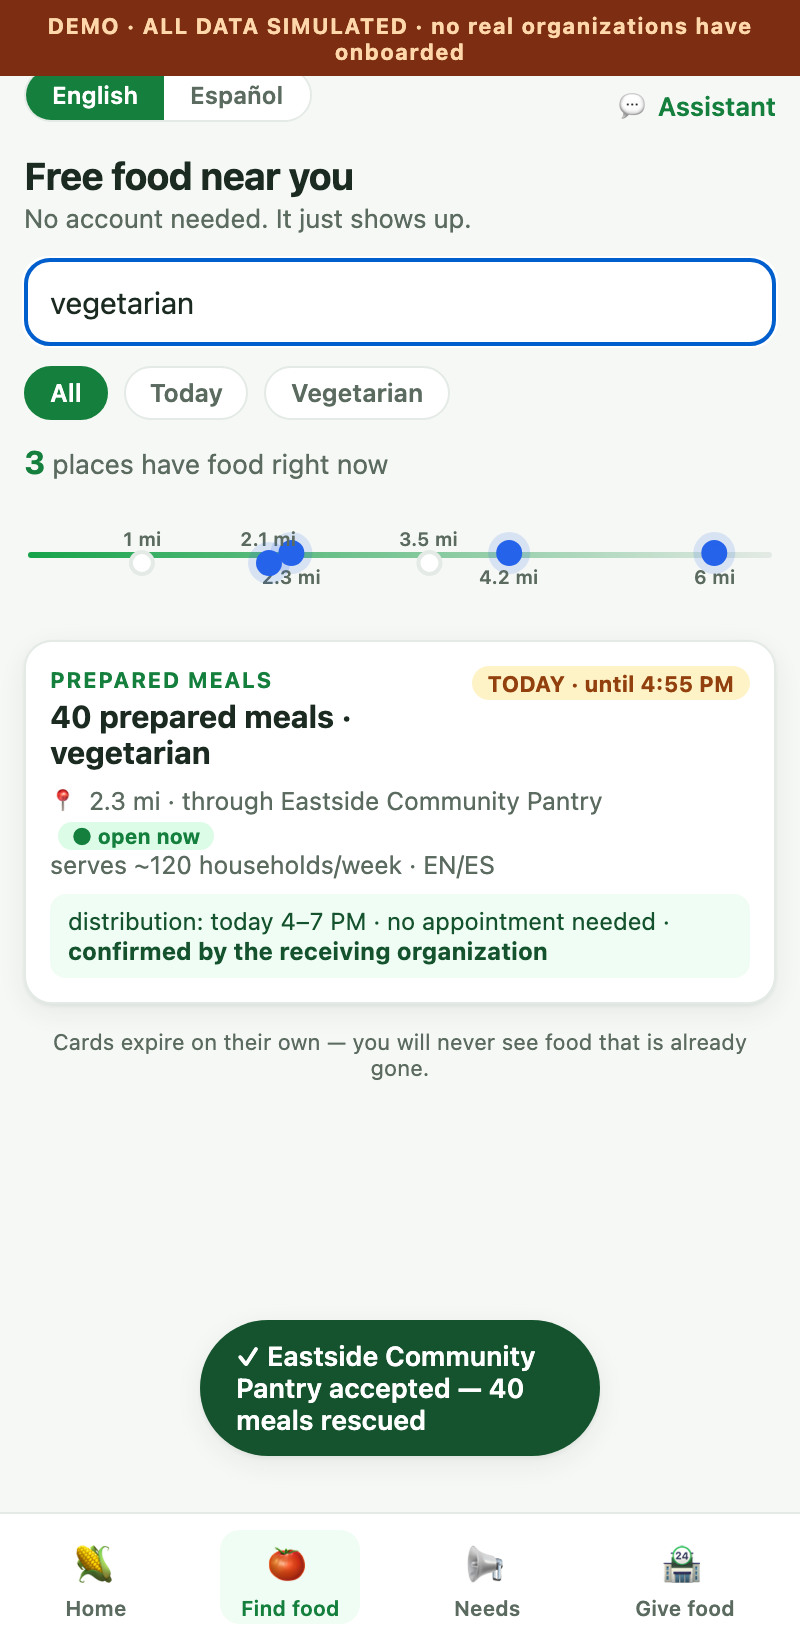
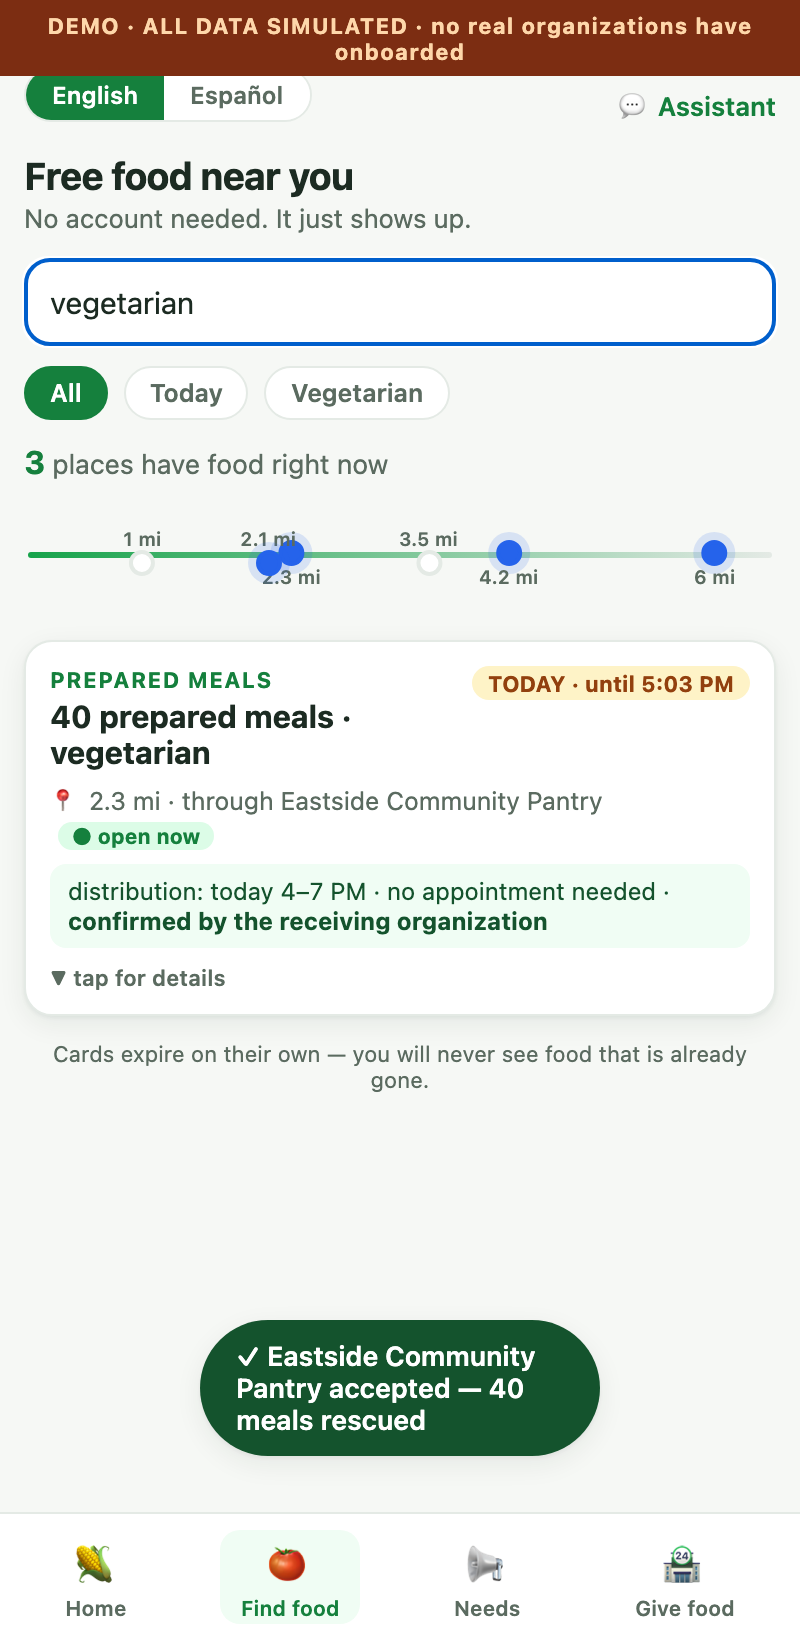
v5: first-run welcome + 60-second guided tour with prefilled form, stepper on donor flow, tap-to-expand household cards, decluttered home

Changed region(s): [[0.0625, 0.4976, 0.8125, 0.653], [0.4375, 0.622, 0.9375, 0.6841], [0.7812, 0.4043, 0.8125, 0.4354]]

diff --git a/app/js/app.js b/app/js/app.js
@@ -8,8 +8,45 @@
     needs: JSON.parse(JSON.stringify(D.needs)),
     impact: JSON.parse(localStorage.getItem('foodlink-impact') || '{"meals":0,"donations":0,"orgs":[]}'),
     draft: null, lang: 'en', filter: 'all', query: '',
-    chat: [], chatBusy: false
+    chat: [], chatBusy: false,
+    tour: { active: false, i: 0 }, openCard: null
   };
+
+  /* ---------- guided tour ---------- */
+  var EXAMPLE = '40 vegetarian prepared meals, refrigerated, need gone by 7pm';
+  var TOUR = [
+    { hash: 'home', text: '👋 This is the live food grid — surplus on one side, need on the other. Let\'s walk it in 7 quick steps.' },
+    { hash: 'donate', text: 'STEP 1 · Describe your food in one sentence — we typed an example for you. Then tap “Find where it should go”.', prefill: true },
+    { hash: 'match', text: 'STEP 2 · FoodLink checked every organization. Gated ones show WHY they were rejected. The top match is 82.4%. Tap “Connect →”.', ensureDraft: true },
+    { hash: 'receipt', text: 'STEP 3 · Done — an impact receipt: 48 lbs, $140.80 value, tax estimate. Every donation gets one automatically.', ensureDraft: true },
+    { hash: 'need', text: 'Now the household side — no login, no documents, honest cards. Tap any card for details; switch to Español.' },
+    { hash: 'sms', text: '💬 Any phone works — the assistant answers in any language. Try a quick-question chip below.' },
+    { hash: 'needs-board', text: '📢 Organizations post what they NEED — and the network exports its own open data. That\'s the whole grid. Tap Finish.' }
+  ];
+  function tourStart() { store.tour = { active: true, i: 0 }; location.hash = TOUR[0].hash; render(); }
+  function tourNext() {
+    var t = store.tour; t.i++;
+    if (t.i >= TOUR.length) { store.tour = { active: false, i: 0 }; location.hash = 'home'; render(); toast('🎉 That\'s the whole grid — explore freely!'); return; }
+    var step = TOUR[t.i];
+    if (step.ensureDraft && (!store.draft || store.draft.raw !== EXAMPLE)) {
+      var d = AI.parseDonation(EXAMPLE); d.attested = true; d.directOffer = false; store.draft = d;
+    }
+    if (step.prefill) store.tourPrefill = true; else store.tourPrefill = false;
+    if (location.hash === '#' + step.hash) render(); else location.hash = step.hash;
+  }
+  function tourBarHTML() {
+    var t = store.tour, step = TOUR[t.i];
+    if (!step) return '';
+    return '<div class="tourbar"><div class="tmeta">Tour ' + (t.i + 1) + '/' + TOUR.length +
+      (step.prefill ? ' · we filled the form for you' : '') + '</div><div class="ttext">' + esc(step.text) + '</div>' +
+      '<div class="tbtns"><button class="btn tbtn-exit" data-tour="exit">Exit</button>' +
+      '<button class="btn btn-primary tbtn-next" data-tour="next">' + (t.i === TOUR.length - 1 ? 'Finish ✓' : 'Next →') + '</button></div></div>';
+  }
+  function ensureDraftNow() {
+    if (!store.draft || store.draft.raw !== EXAMPLE) {
+      var d = AI.parseDonation(EXAMPLE); d.attested = true; d.directOffer = false; store.draft = d;
+    }
+  }
   function saveImpact() { localStorage.setItem('foodlink-impact', JSON.stringify(store.impact)); }
   function esc(s) { return String(s == null ? '' : s).replace(/[&<>"']/g, function (c) {
     return { '&': '&amp;', '<': '&lt;', '>': '&gt;', '"': '&quot;', "'": '&#39;' }[c]; }); }
@@ -46,6 +83,7 @@
     '<small>The real-time food grid · Des Moines</small></div></div>' +
     '<a class="gear" href="#settings" title="AI settings">⚙</a></div>' +
     '<span class="tag"><i></i>' + live + ' surplus · ' + store.needs.length + ' needs on the board right now</span>' +
+    '<a class="tourlink" data-tour-start="1">▶ New here? Take the 60-second tour</a>' +
     '<a class="btn-big btn-need" href="#need">🍅 I need food<span>Free food near you, today — no sign-up</span></a>' +
     '<a class="btn-big btn-have" href="#donate">🏪 I have food<span>Businesses &amp; organizations: post surplus in one sentence</span></a>' +
     '<div class="lane">💬 <div><b>Any phone, any language.</b> Chat with FoodLink — on a smartphone or a flip phone. ' +
@@ -58,8 +96,7 @@
     '<div class="meta" style="font-size:14px"><b style="font-size:22px;color:var(--green-700)">' + store.impact.meals +
     '</b> meals rescued · ' + store.impact.donations + (store.impact.donations === 1 ? ' donation' : ' donations') + ' · ' +
     E.impact(store.impact.meals).lbs + ' lbs diverted · $' + E.impact(store.impact.meals).value + ' in value</div></div></div>' +
-    '<p class="footnote">All organizations and listings are simulated for this demo — no real partnership is claimed.<br>' +
-    'Matching math: hard safety gates, then urgency .35 · distance .30 · capacity .20 · transport .15.</p>';
+    '<p class="footnote">All organizations and listings are simulated for this demo — no real partnership is claimed.</p>';
   };
 
   function gridHTML() {
@@ -108,7 +145,7 @@
   views.donate = function () {
     var d = store.draft;
     return '' +
-    '<a class="back" href="#home">← Home</a>' +
+    '<a class="back" href="#home">← Home</a>' + stepper(1) +
     '<h3 class="sec">Post surplus</h3>' +
     '<p class="sub">Type it like you\'d text a coworker. FoodLink does the rest.</p>' +
     '<textarea class="post" id="postText" placeholder="e.g. 40 vegetarian prepared meals, refrigerated, need gone by 7pm">' +
@@ -116,8 +153,8 @@
     '<div id="parseOut">' + (d ? parseHTML(d) : '<p class="ai-note">The assistant reads your note and pulls out food type, quantity, storage and deadline.</p>') + '</div>' +
     '<label class="check"><input type="checkbox" id="attest"> I attest this food has been held at safe temperatures ' +
     'and will be labeled for allergens.</label>' +
-    '<label class="check"><input type="checkbox" id="directOffer"> 🍽 Also allow <b>direct delivery to a nearby household</b> ' +
-    'tonight — protected for donors by the federal Food Donation Improvement Act of 2023.</label>' +
+    '<label class="check"><input type="checkbox" id="directOffer"> 🍽 Direct delivery to a nearby household tonight — ' +
+    'protected for donors by the Food Donation Improvement Act of 2023.</label>' +
     '<button class="btn btn-primary" id="findMatch" disabled>Find where it should go →</button>' +
     '<p class="ai-note" id="viaNote"></p>';
   };
@@ -148,7 +185,7 @@
     var best = ranked.filter(function (r) { return !r.gated; })[0];
     var rival = ranked.filter(function (r) { return !r.gated; })[1];
     if (best) best.vsRivalP = rival ? E.monteCarlo(best.factors, rival.factors, 20000) : 1;
-    var out = '<a class="back" href="#donate">← Edit post</a>' +
+    var out = '<a class="back" href="#donate">← Edit post</a>' + stepper(2) +
       '<h3 class="sec">Where your ' + d.qty + ' ' + esc(E.labelType(d.type)) + ' should go</h3>' +
       '<p class="sub">Ranked by the match score — math shown, nothing hidden.</p>';
     ranked.forEach(function (m, i) {
@@ -190,6 +227,13 @@
     return '<div class="bar"><span>' + label + '</span><div class="track"><div class="fill" style="width:' +
       Math.round(v * 100) + '%"></div></div><span>' + v.toFixed(2) + '</span></div>';
   }
+  function stepper(n) {
+    var labels = ['Describe it', 'Where it goes', 'Receipt'];
+    return '<div class="stepper">' + labels.map(function (l, i) {
+      return '<span class="s' + (i + 1 === n ? ' now' : i + 1 < n ? ' done' : '') + '">' +
+        (i + 1 < n ? '✓' : i + 1) + ' ' + l + '</span>';
+    }).join('<i>›</i>') + '</div>';
+  }
 
   /* ---------- receipt ---------- */
   views.receipt = function () {
@@ -197,7 +241,7 @@
     if (!d) { location.hash = '#home'; return ''; }
     var imp = E.impact(d.qty), tax = E.taxEstimate(d.qty), yr = E.taxEstimate(d.qty * 52);
     return '' +
-    '<a class="back" href="#home">← Home</a>' +
+    '<a class="back" href="#home">← Home</a>' + stepper(3) +
     '<h3 class="sec">Impact receipt</h3>' +
     '<p class="sub">Every donation closes the loop — for the business and the IRS.</p>' +
     '<div class="receipt" id="receiptCard">' +
@@ -234,13 +278,23 @@
       var lbl = l.deadlineMin <= 1440 ? I.t('today') + ' · ' + I.t('until') + ' ' + fmtTime(l.deadlineMin) : I.t('sat');
       var win = es ? (l.distribution.windowEs || l.distribution.window) : l.distribution.window;
       var note = es ? (l.distribution.noteEs || l.distribution.note) : l.distribution.note;
-      return '<div class="card"><span class="pill ' + (l.deadlineMin <= 1440 ? 'now' : 'ok') + '">' + lbl + '</span>' +
+      var isOpen = store.openCard === l.id;
+      var detail = isOpen
+        ? '<div class="card-detail">' +
+          (org ? '<div>🕒 ' + esc(org.hours) + (org.languages ? ' · 🗣 ' + org.languages.join('/').toUpperCase() : '') + '</div>' : '') +
+          (org && org.serves ? '<div>' + esc(org.serves) + '</div>' : '') +
+          '<div>🪪 ' + (es ? 'No se necesita ID aquí — las despensas usan auto-declaración.' : 'No ID needed here — pantries use self-attestation.') + '</div>' +
+          '<div>🎒 ' + (es ? 'Trae una bolsa.' : 'Bring a bag.') + '</div></div>'
+        : '';
+      return '<div class="card' + (isOpen ? ' open' : '') + '" data-expand="' + l.id + '" role="button">' +
+        '<span class="pill ' + (l.deadlineMin <= 1440 ? 'now' : 'ok') + '">' + lbl + '</span>' +
         '<div class="k">' + I.t(l.type) + '</div><h5>' + l.qty + ' ' + I.t(l.type) +
         (l.diet ? ' · ' + I.diet(l.diet) : '') + '</h5>' +
         '<div class="meta">📍 ' + mi + ' mi · ' + I.t('via') + ' ' + esc(l.distribution.org) +
         (openNow ? ' <span class="open-badge">● open now</span>' : '') + '</div>' +
-        (org && org.serves ? '<div class="meta">' + esc(org.serves) + (org.languages ? ' · ' + org.languages.join('/').toUpperCase() : '') + '</div>' : '') +
-        '<div class="honest">' + I.t('dist') + ': ' + esc(win) + (note ? ' · ' + esc(note) : '') + ' · <b>' + I.t('confirmed') + '</b></div></div>';
+        '<div class="honest">' + I.t('dist') + ': ' + esc(win) + (note ? ' · ' + esc(note) : '') + ' · <b>' + I.t('confirmed') + '</b></div>' +
+        detail +
+        '<div class="tap-hint">' + (isOpen ? (es ? '▲ tocar para cerrar' : '▲ tap to close') : (es ? '▼ tocar para detalles' : '▼ tap for details')) + '</div></div>';
     }).join('');
 
     var maxMi = 6.5, rail = D.orgs.filter(function (o) {
@@ -373,25 +427,68 @@
 
   /* ---------------- router ---------------- */
   views['needs-board'] = views.needsBoard; // tab href alias
+  var TAB_FOR = { match: 'donate', receipt: 'donate', how: null, settings: null };
   function render() {
     var h = location.hash.replace('#', '') || 'home';
     var parts = h.split('/'), name = parts[0];
     var fn = views[name] || views.home;
+    var tab = TAB_FOR[name] === undefined ? name : TAB_FOR[name];
     document.getElementById('app').innerHTML = fn();
     document.querySelectorAll('.tabbar a').forEach(function (a) {
-      a.classList.toggle('on', a.dataset.tab === name);
+      a.classList.toggle('on', a.dataset.tab === tab);
     });
     bind(name);
+    // first-run welcome
+    if (!localStorage.getItem('foodlink-seen') && !document.getElementById('welcome')) {
+      var w = document.createElement('div');
+      w.className = 'welcome'; w.id = 'welcome';
+      w.innerHTML = '<div class="wsheet"><div class="wlogo">🌽</div><h3>Welcome to FoodLink</h3>' +
+        '<p>La red de alimentos en tiempo real de Des Moines.<br>Two doors: <b>food you need</b> or <b>food you have</b> — the grid connects them in minutes.</p>' +
+        '<button class="btn btn-primary" data-w="tour">▶ Show me how it works (60 sec)</button>' +
+        '<button class="btn btn-ghost" data-w="need">🍅 I need food</button>' +
+        '<button class="btn btn-ghost" data-w="donate">🏪 I have food</button>' +
+        '<button class="wskip" data-w="skip">explore on my own →</button></div>';
+      document.body.appendChild(w);
+      w.querySelectorAll('[data-w]').forEach(function (b) {
+        b.addEventListener('click', function () {
+          localStorage.setItem('foodlink-seen', '1'); w.remove();
+          if (b.dataset.w === 'tour') tourStart();
+          else if (b.dataset.w !== 'skip') location.hash = b.dataset.w;
+        });
+      });
+    }
+    // tour bar
+    var old = document.querySelector('.tourbar'); if (old) old.remove();
+    if (store.tour.active) {
+      var tb = document.createElement('div'); tb.innerHTML = tourBarHTML();
+      var bar = tb.firstChild; document.body.appendChild(bar);
+      bar.querySelectorAll('[data-tour]').forEach(function (b) {
+        b.addEventListener('click', function () {
+          if (b.dataset.tour === 'next') tourNext();
+          else { store.tour = { active: false, i: 0 }; bar.remove(); toast('Tour ended — explore freely.'); }
+        });
+      });
+    }
     window.scrollTo(0, 0);
   }
 
   function bind(name) {
     var app = document.getElementById('app');
 
+    if (name === 'home') {
+      var tl = app.querySelector('[data-tour-start]');
+      if (tl) tl.addEventListener('click', tourStart);
+    }
+
     if (name === 'donate') {
       var txt = document.getElementById('postText'), find = document.getElementById('findMatch');
       var check = document.getElementById('attest'), out = document.getElementById('parseOut');
       var doffer = document.getElementById('directOffer');
+      if (store.tour.active && TOUR[store.tour.i] && TOUR[store.tour.i].prefill && !txt.value) {
+        txt.value = EXAMPLE; check.checked = true;
+        store.draft = AI.parseDonation(EXAMPLE); store.draft.attested = true;
+        out.innerHTML = parseHTML(store.draft);
+      }
       function refresh() { find.disabled = !(txt.value.trim().length > 4 && check.checked); }
       var deb;
       txt.addEventListener('input', function () {
@@ -436,6 +533,11 @@
       });
       app.querySelectorAll('[data-filter]').forEach(function (b) {
         b.addEventListener('click', function () { store.filter = b.dataset.filter; render(); });
+      });
+      app.querySelectorAll('[data-expand]').forEach(function (c) {
+        c.addEventListener('click', function () {
+          store.openCard = store.openCard === c.dataset.expand ? null : c.dataset.expand; render();
+        });
       });
       var s = document.getElementById('searchFood');
       if (s) { var deb2; s.addEventListener('input', function () {

diff --git a/app/styles.css b/app/styles.css
@@ -177,3 +177,30 @@ code{background:var(--green-50);border:1px solid var(--line);border-radius:6px;p
   border-radius:10px;padding:12px;overflow-x:auto;white-space:pre-wrap;word-break:break-word;max-height:320px;overflow-y:auto}
 ol.rules{margin:8px 0 0 18px;display:grid;gap:6px;font-size:13px}
 ol.rules b{color:var(--green-700)}
+
+/* ---- v5: onboarding, tour, stepper, expandable cards ---- */
+.welcome{position:fixed;inset:0;z-index:100;background:rgba(11,32,20,.55);display:flex;align-items:flex-end;justify-content:center}
+.wsheet{background:#fff;border-radius:22px 22px 0 0;max-width:480px;width:100%;padding:26px 22px calc(22px + env(safe-area-inset-bottom));
+  text-align:center;box-shadow:0 -10px 40px rgba(0,0,0,.25)}
+.wlogo{font-size:44px}
+.wsheet h3{font-size:22px;margin:6px 0 8px;letter-spacing:-.01em}
+.wsheet p{font-size:14px;color:var(--muted);margin-bottom:16px;line-height:1.5}
+.wskip{display:inline-block;margin-top:12px;font-size:12.5px;color:var(--muted);background:none;border:0;text-decoration:underline}
+.tourlink{display:block;text-align:center;font-size:13.5px;font-weight:700;color:var(--green-700);
+  background:var(--green-50);border:1.5px dashed var(--green-600);border-radius:12px;padding:9px;margin:0 0 14px}
+.tourbar{position:fixed;left:12px;right:12px;bottom:calc(74px + env(safe-area-inset-bottom));z-index:90;
+  background:var(--green-900);color:#fff;border-radius:16px;padding:12px 14px;box-shadow:0 8px 30px rgba(0,0,0,.35)}
+.tourbar .tmeta{font-size:10.5px;font-weight:700;text-transform:uppercase;letter-spacing:.08em;color:#86efac}
+.tourbar .ttext{font-size:13.5px;line-height:1.45;margin:5px 0 10px}
+.tourbar .tbtns{display:flex;gap:8px;justify-content:flex-end}
+.tourbar .btn{padding:8px 14px;font-size:13px}
+.tourbar .tbtn-exit{background:rgba(255,255,255,.12);color:#fff}
+.tourbar .tbtn-next{margin:0;width:auto}
+.stepper{display:flex;gap:6px;align-items:center;font-size:11px;font-weight:700;color:var(--muted);margin:8px 0 4px;flex-wrap:wrap}
+.stepper i{color:var(--line);font-style:normal}
+.stepper span{background:#fff;border:1px solid var(--line);border-radius:99px;padding:3px 9px}
+.stepper span.now{background:var(--green-700);color:#fff;border-color:var(--green-700)}
+.stepper span.done{background:var(--green-100);color:var(--green-700);border-color:var(--green-100)}
+.card[data-expand]{cursor:pointer}
+.card .tap-hint{margin-top:8px;font-size:11px;color:var(--muted);font-weight:600}
+.card-detail{margin-top:9px;border-top:1px dashed var(--line);padding-top:9px;display:grid;gap:5px;font-size:12.5px;color:var(--ink)}
